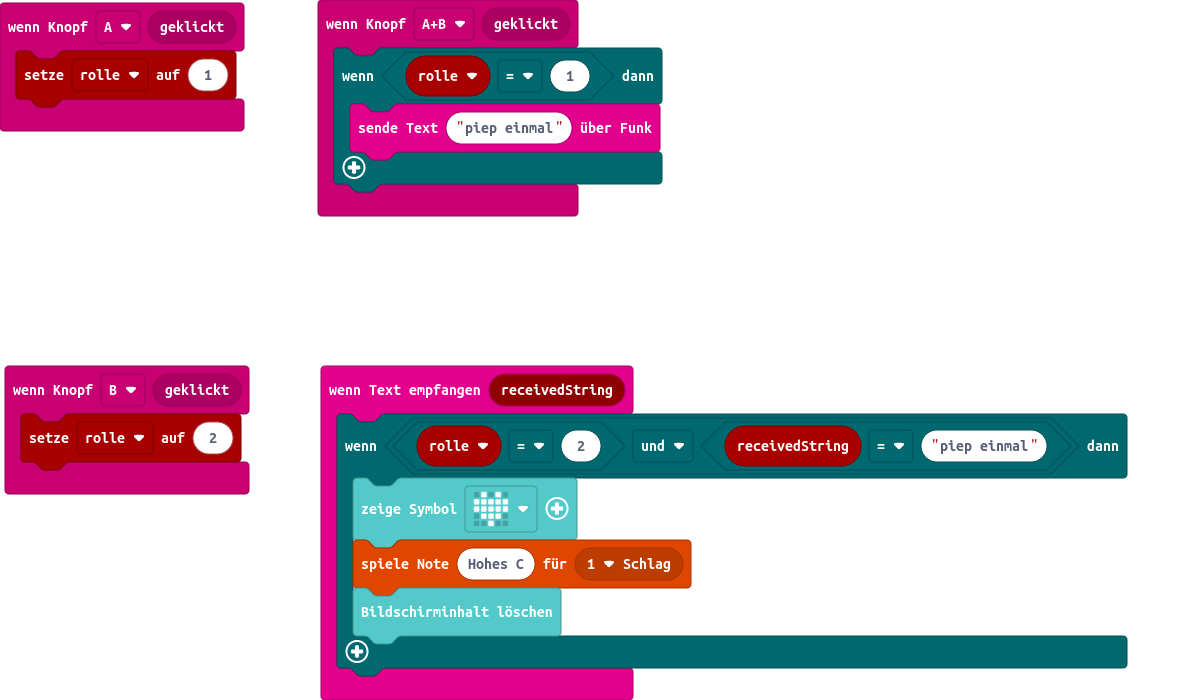
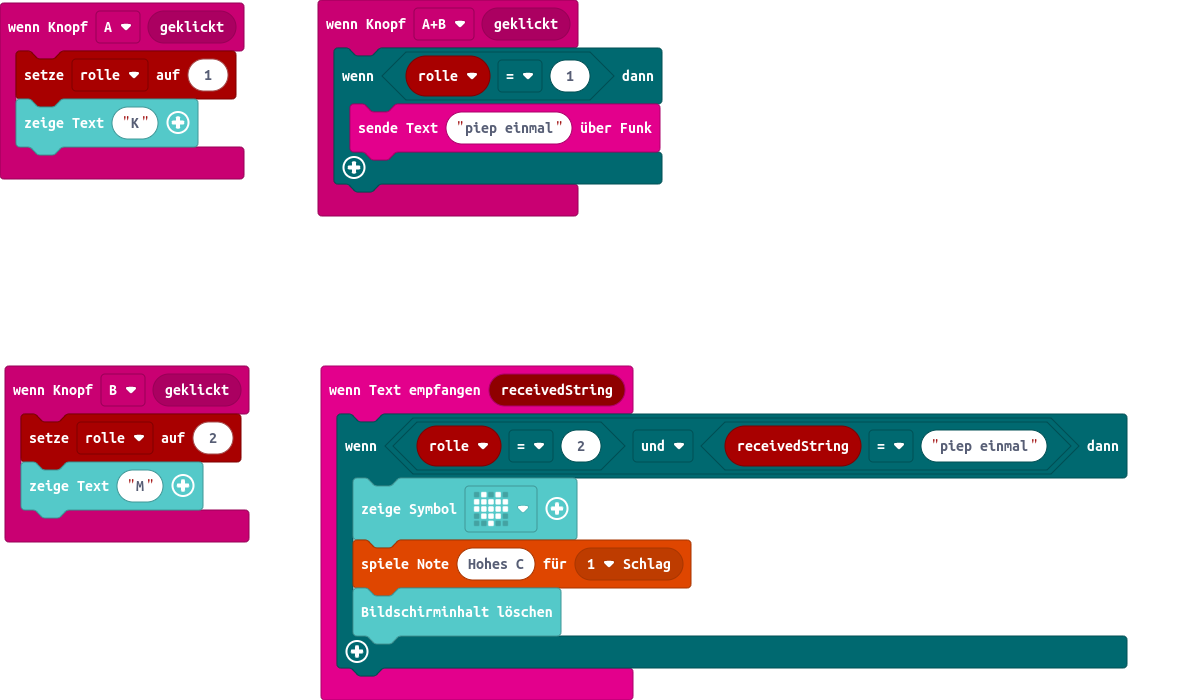
Anzeige der aktuellen Rolle

Changed region(s): [[0.0, 0.12, 0.2137, 0.27], [0.0, 0.66, 0.2137, 0.78]]

diff --git a/main.ts b/main.ts
@@ -5,6 +5,7 @@ enum RadioMessage {
 let rolle = 0
 input.onButtonEvent(Button.A, input.buttonEventClick(), function () {
     rolle = 1
+    basic.showString("K")
 })
 input.onButtonEvent(Button.AB, input.buttonEventClick(), function () {
     if (rolle == 1) {
@@ -13,6 +14,7 @@ input.onButtonEvent(Button.AB, input.buttonEventClick(), function () {
 })
 input.onButtonEvent(Button.B, input.buttonEventClick(), function () {
     rolle = 2
+    basic.showString("M")
 })
 radio.onReceivedString(function (receivedString) {
     if (rolle == 2 && receivedString == "piep einmal") {
